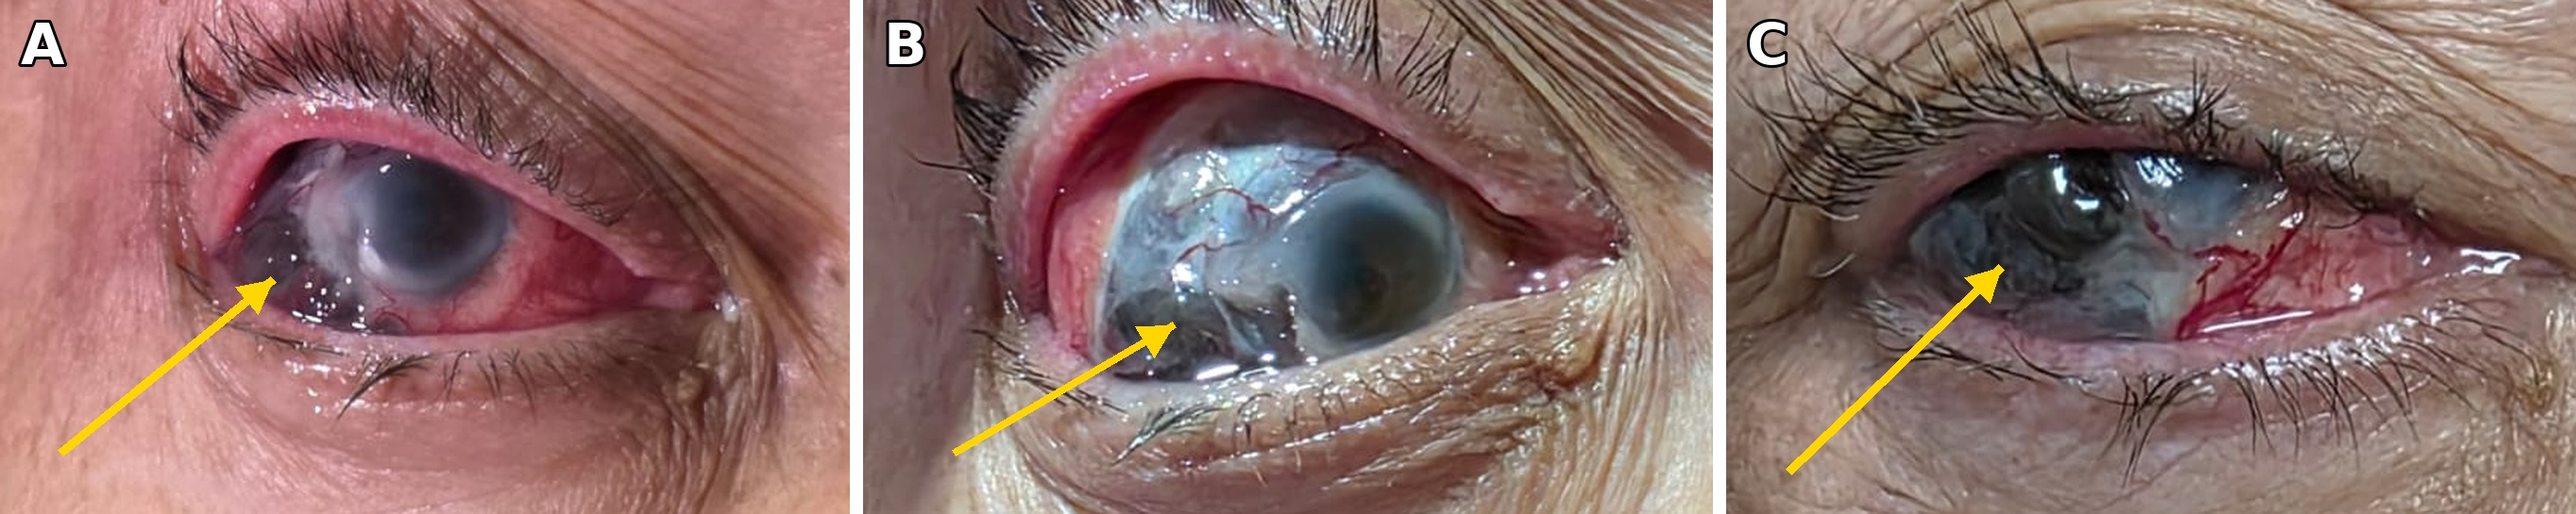
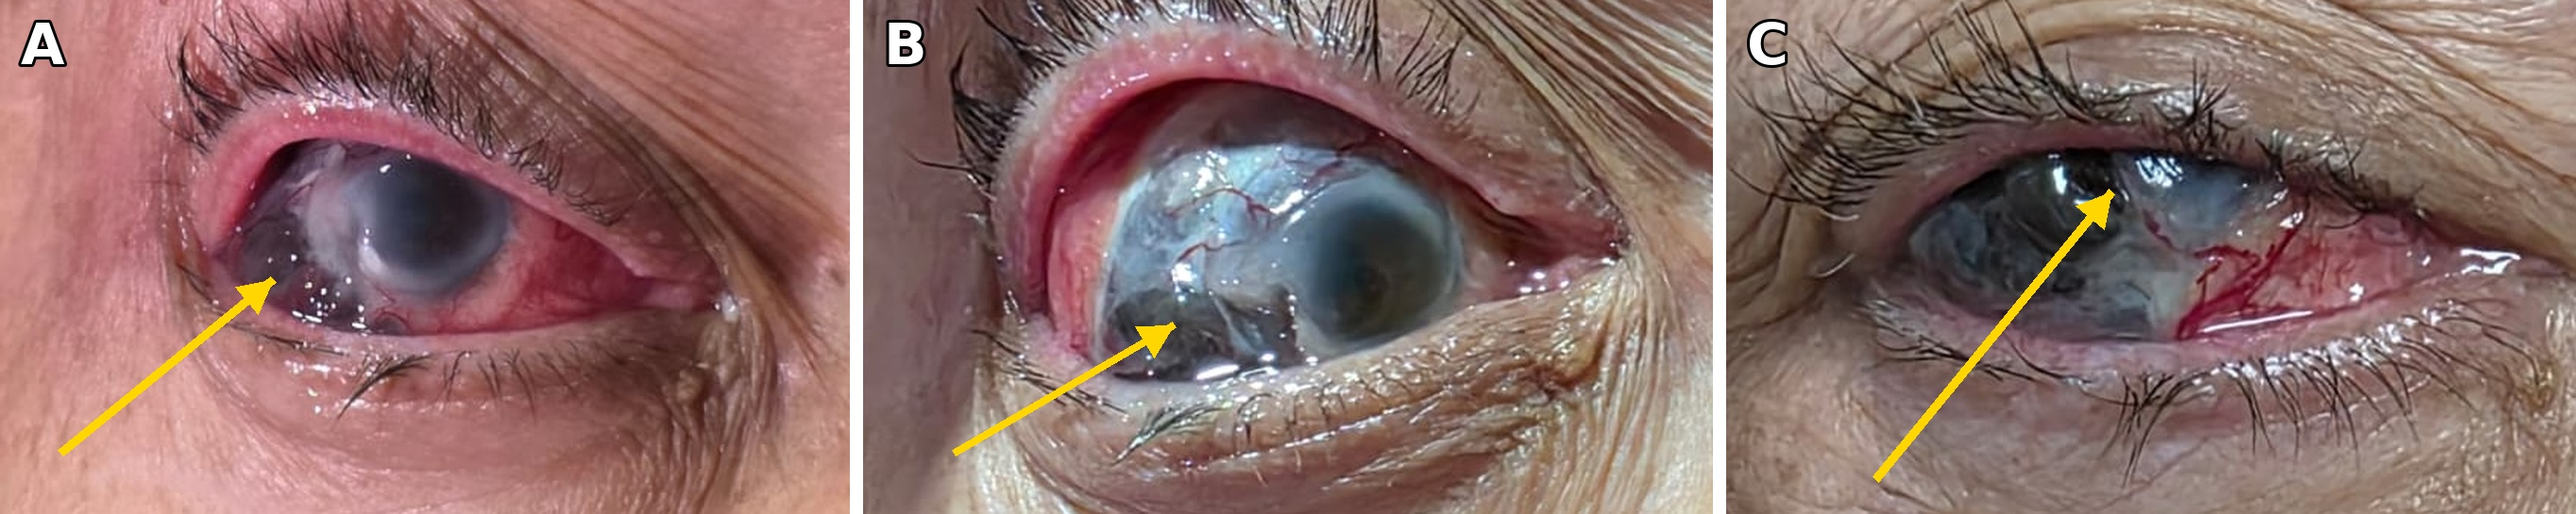
Caso 3: flecha del panel C sobre la zona más oscura
Claude-Session: https://claude.ai/code/session_01Bj6qCzGiTu2FiAWUVaPC1e

Changed region(s): [[0.6855, 0.4367, 0.8101, 0.9358], [0.8101, 0.3743, 0.8413, 0.4367]]

diff --git a/panlar2027/caso3_figura1_script_3paneles.py b/panlar2027/caso3_figura1_script_3paneles.py
@@ -4,7 +4,7 @@ d_in, out = sys.argv[1], sys.argv[2]
 W, H = 900, 545
 crops = [('9',(600,250,1160,590)), ('10',(380,230,940,570)), ('12',(560,115,1100,442))]
 labels = ['A','B','C']
-arrows = {'A': ((40, 300), (180, 185)), 'B': ((60, 300), (205, 215)), 'C': ((40, 300), (175, 170))}
+arrows = {'A': ((40, 300), (180, 185)), 'B': ((60, 300), (205, 215)), 'C': ((95, 305), (245, 122))}
 font = ImageFont.truetype('/usr/share/fonts/truetype/dejavu/DejaVuSans-Bold.ttf', 60)
 def arrow(d, s, e, color, w):
     d.line([s, e], fill=color, width=w)
